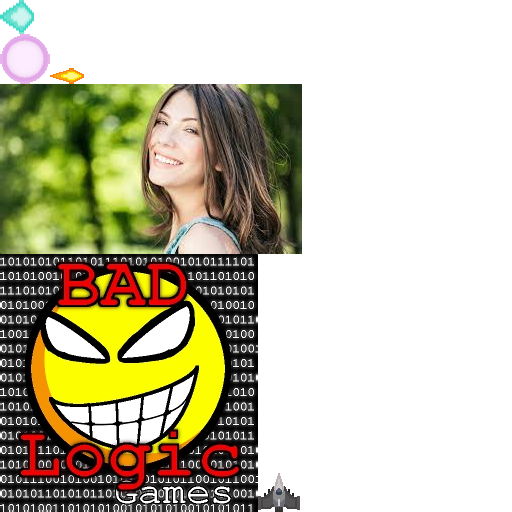
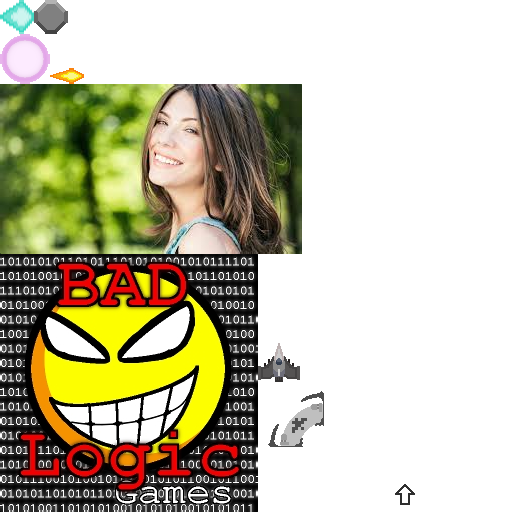
Changes to powerups
+ Added createBasePowerUp builder
	+ Added more sprites
	~ Source compatibility now at 1.8
	~ DebugDrawSystem now does component checking prior to drawing
	+ Added StarsTest (not finished)

diff --git a/core/src/com/coffee/entity/EntityFactory.java b/core/src/com/coffee/entity/EntityFactory.java
@@ -10,7 +10,6 @@ import com.badlogic.gdx.graphics.Color;
 import com.badlogic.gdx.graphics.g2d.Batch;
 import com.badlogic.gdx.graphics.g2d.Sprite;
 import com.badlogic.gdx.graphics.g2d.TextureAtlas;
-import com.badlogic.gdx.math.MathUtils;
 import com.badlogic.gdx.math.Polygon;
 import com.badlogic.gdx.math.Vector2;
 import com.badlogic.gdx.utils.Array;
@@ -20,7 +19,6 @@ import com.coffee.main.Application;
 import com.coffee.util.Assets;
 import com.coffee.util.CollisionHandler;
 import com.coffee.util.Mapper;
-import com.coffee.util.SpawnerHandler;
 
 import java.awt.*;
 
@@ -261,54 +259,73 @@ public class EntityFactory {
     public static Entity createRandomPowerUpSpawner(float x, float y) {
         final Entity E = new Entity();
         final TransformComponent TRANSFORM = new TransformComponent();
-        final SpriteComponent SPRITE = new SpriteComponent(); //debug
-        final SpawnerComponent SPAWN = new SpawnerComponent(new SpawnerHandler() {
-            @Override
-            public Array<Entity> getSpawnEntity() {
-                Array<Entity> spawnedEntities = new Array<Entity>(1);
-                //Spawn a random power up within a 300x300 square of the position
-                float spawnX = TRANSFORM.POSITION.x  + (float) ((Math.random() * 600) - 300);
-                float spawnY = TRANSFORM.POSITION.y  + (float) ((Math.random() * 600) - 300);
-                int randomPowerUpSpawned = (int) ((Math.random() * 3));
+        final SpawnerComponent SPAWN = new SpawnerComponent(() -> {
+            Array<Entity> spawnedEntities = new Array<Entity>(1);
+            //Spawn a random power up within a 300x300 square of the position
+            float spawnX = TRANSFORM.POSITION.x  + (float) ((Math.random() * 600) - 300);
+            float spawnY = TRANSFORM.POSITION.y  + (float) ((Math.random() * 600) - 300);
+            int randomPowerUpSpawned = (int) ((Math.random() * 3));
 
-                switch (randomPowerUpSpawned) {
-                    case 0: //health power up
-                        spawnedEntities.add(createHealthPowerUp(spawnX, spawnY));
-                        break;
-                    case 1: //speed power up
-                        spawnedEntities.add(createSpeedPowerUp(spawnX, spawnY));
-                        break;
-                    case 2: //create fire rate up
-                        spawnedEntities.add(createFireRatePowerUp(spawnX, spawnY));
-                        break;
-                }
-                return spawnedEntities;
+            switch (randomPowerUpSpawned) {
+                case 0: //health power up
+                    spawnedEntities.add(createHealthPowerUp(spawnX, spawnY));
+                    break;
+                case 1: //speed power up
+                    spawnedEntities.add(createSpeedPowerUp(spawnX, spawnY));
+                    break;
+                case 2: //create fire rate up
+                    spawnedEntities.add(createFireRatePowerUp(spawnX, spawnY));
+                    break;
             }
+            return spawnedEntities;
         });
 
-        //Set up Sprite Component
-        Sprite sprite = goAtlas.createSprite("bullet_large");
-        sprite.setOrigin(sprite.getWidth() / 2, sprite.getHeight() / 2);
-        SPRITE.SPRITES.add(sprite);
-
         //Set up Transform Component
-        TRANSFORM.POSITION.x = x;
-        TRANSFORM.POSITION.y = y;
+        TRANSFORM.POSITION.set(x, y);
 
         //Set up Spawn Component
         SPAWN.spawnRate = 2;
 
-        return E.add(TRANSFORM).add(SPRITE).add(SPAWN);
+        return E.add(TRANSFORM).add(SPAWN);
+    }
+
+    public static Entity createBasePowerUp(float x, float y) {
+        final Entity E = new Entity();
+        final TransformComponent TRANSFORM = new TransformComponent();
+        final SpriteComponent SPRITE = new SpriteComponent();
+        final ColliderComponent COLLIDER;
+
+        //Set up Sprite Component
+        Sprite
+            base = goAtlas.createSprite("upgrade_base"),
+            up = goAtlas.createSprite("up_arrow");
+
+        base.setOriginCenter();
+        up.setOriginCenter();
+
+        SPRITE.SPRITES.add(base);
+        SPRITE.SPRITES.add(up);
+
+        //Set up Transform Component
+        TRANSFORM.POSITION.set(x, y);
+
+        return E.add(TRANSFORM).add(SPRITE);
     }
 
     /**
      * Creates a health power up that restores the player's health to max.
      */
     public static Entity createHealthPowerUp(float x, float y) {
-        final Entity E = new Entity();
-        final TransformComponent TRANSFORM = new TransformComponent();
-        final SpriteComponent SPRITE = new SpriteComponent();
-        final ColliderComponent COLLIDER = new ColliderComponent(new CollisionHandler() {
+        final Entity E = createBasePowerUp(x, y);
+        final TransformComponent TRANSFORM = Mapper.TRANSFORM.get(E);
+        final SpriteComponent SPRITE = Mapper.SPRITE.get(E);
+        final ColliderComponent COLLIDER;
+
+        // Set up base sprite
+        SPRITE.SPRITES.get(0).setColor(Color.RED);
+
+        //Set up Collider Component
+        COLLIDER = new ColliderComponent(new CollisionHandler() {
             @Override
             public void enterCollision(Entity entity) {
                 if (Mapper.PLAYER.has(entity)) {
@@ -325,26 +342,16 @@ public class EntityFactory {
             }
         });
 
-        //Set up Transform Component
-        TRANSFORM.POSITION.x = x;
-        TRANSFORM.POSITION.y = y;
-
-        //Set up Sprite Component
-        Sprite sprite = goAtlas.createSprite("bullet_ball");
-        sprite.setOrigin(sprite.getWidth() / 2, sprite.getHeight() / 2);
-        SPRITE.SPRITES.add(sprite);
-
-        //Set up Collider Component
         COLLIDER.body = new Polygon(new float[] {
                 0, 0,
-                16, 0,
-                16, 16,
-                0, 16
+                TRANSFORM.SIZE.width, 0,
+                TRANSFORM.SIZE.width, TRANSFORM.SIZE.height,
+                0, TRANSFORM.SIZE.height
         });
         COLLIDER.solid = false;
-        COLLIDER.body.setOrigin(8, 8);
+        COLLIDER.body.setOrigin(TRANSFORM.ORIGIN.x, TRANSFORM.ORIGIN.y);
 
-        return E.add(TRANSFORM).add(SPRITE).add(COLLIDER);
+        return E.add(COLLIDER);
     }
 
     /**
@@ -352,15 +359,20 @@ public class EntityFactory {
      * diminishing returns after 20 bullets per second.
      */
     public static Entity createFireRatePowerUp(float x, float y) {
-        final Entity E = new Entity();
-        final TransformComponent TRANSFORM = new TransformComponent();
-        final SpriteComponent SPRITE = new SpriteComponent();
-        final ColliderComponent COLLIDER = new ColliderComponent(new CollisionHandler() {
+        final Entity E = createBasePowerUp(x, y);
+        final TransformComponent TRANSFORM = Mapper.TRANSFORM.get(E);
+        final SpriteComponent SPRITE = Mapper.SPRITE.get(E);
+        final ColliderComponent COLLIDER;
+
+        // Set up base sprite
+        SPRITE.SPRITES.get(0).setColor(Color.YELLOW);
+
+        //Set up Collider Component
+        COLLIDER = new ColliderComponent(new CollisionHandler() {
             @Override
             public void enterCollision(Entity entity) {
                 if (Mapper.PLAYER.has(entity)) {
-                    PlayerComponent player = Mapper.PLAYER.get(entity);
-                    player.bulletsPerSecond += 2 * MathUtils.clamp(20 / player.bulletsPerSecond, 0, 1);
+                    Mapper.HEALTH.get(entity).health = Mapper.HEALTH.get(entity).MAX_HEALTH;
                 }
             }
 
@@ -373,27 +385,16 @@ public class EntityFactory {
             }
         });
 
-        //Set up Transform Component
-        TRANSFORM.POSITION.x = x;
-        TRANSFORM.POSITION.y = y;
-
-        //Set up Sprite Component
-        Sprite sprite = goAtlas.createSprite("bullet_ball");
-        sprite.setColor(Color.RED);
-        sprite.setOrigin(sprite.getWidth() / 2, sprite.getHeight() / 2);
-        SPRITE.SPRITES.add(sprite);
-
-        //Set up Collider Component
         COLLIDER.body = new Polygon(new float[] {
                 0, 0,
-                16, 0,
-                16, 16,
-                0, 16
+                TRANSFORM.SIZE.width, 0,
+                TRANSFORM.SIZE.width, TRANSFORM.SIZE.height,
+                0, TRANSFORM.SIZE.height
         });
         COLLIDER.solid = false;
-        COLLIDER.body.setOrigin(8, 8);
+        COLLIDER.body.setOrigin(TRANSFORM.ORIGIN.x, TRANSFORM.ORIGIN.y);
 
-        return E.add(TRANSFORM).add(SPRITE).add(COLLIDER);
+        return E.add(COLLIDER);
     }
 
     /**
@@ -401,15 +402,20 @@ public class EntityFactory {
      * returns after 10.
      */
     public static Entity createSpeedPowerUp(float x, float y) {
-        final Entity E = new Entity();
-        final TransformComponent TRANSFORM = new TransformComponent();
-        final SpriteComponent SPRITE = new SpriteComponent();
-        final ColliderComponent COLLIDER = new ColliderComponent(new CollisionHandler() {
+        final Entity E = createBasePowerUp(x, y);
+        final TransformComponent TRANSFORM = Mapper.TRANSFORM.get(E);
+        final SpriteComponent SPRITE = Mapper.SPRITE.get(E);
+        final ColliderComponent COLLIDER;
+
+        // Set up base sprite
+        SPRITE.SPRITES.get(0).setColor(Color.CYAN);
+
+        //Set up Collider Component
+        COLLIDER = new ColliderComponent(new CollisionHandler() {
             @Override
             public void enterCollision(Entity entity) {
-                MovementComponent move = Mapper.MOVEMENT.get(entity);
-                if (move != null) {
-                    move.moveSpeed += 1 * MathUtils.clamp(10 / move.moveSpeed, 0, 1);
+                if (Mapper.PLAYER.has(entity)) {
+                    Mapper.HEALTH.get(entity).health = Mapper.HEALTH.get(entity).MAX_HEALTH;
                 }
             }
 
@@ -422,27 +428,15 @@ public class EntityFactory {
             }
         });
 
-        //Set up Transform Component
-        TRANSFORM.POSITION.x = x;
-        TRANSFORM.POSITION.y = y;
-
-        //Set up Sprite Component
-        Sprite sprite = goAtlas.createSprite("bullet_ball");
-        sprite.setColor(Color.PINK);
-        sprite.setOrigin(sprite.getWidth() / 2, sprite.getHeight() / 2);
-        SPRITE.SPRITES.add(sprite);
-
-        //Set up Collider Component
         COLLIDER.body = new Polygon(new float[] {
                 0, 0,
-                16, 0,
-                16, 16,
-                0, 16
+                TRANSFORM.SIZE.width, 0,
+                TRANSFORM.SIZE.width, TRANSFORM.SIZE.height,
+                0, TRANSFORM.SIZE.height
         });
         COLLIDER.solid = false;
-        COLLIDER.body.setOrigin(8, 8);
+        COLLIDER.body.setOrigin(TRANSFORM.ORIGIN.x, TRANSFORM.ORIGIN.y);
 
-        return E.add(TRANSFORM).add(SPRITE).add(COLLIDER);
-
+        return E.add(COLLIDER);
     }
 }

diff --git a/core/src/com/coffee/entity/systems/DebugDrawSystem.java b/core/src/com/coffee/entity/systems/DebugDrawSystem.java
@@ -30,35 +30,40 @@ public class DebugDrawSystem extends IteratingSystem {
 
     @Override
     protected void processEntity(Entity entity, float deltaTime) {
-        TransformComponent transform = Mapper.TRANSFORM.get(entity);
-        ColliderComponent collider = Mapper.COLLIDER.get(entity);
-
         // Transform first
-        RENDERER.set(ShapeRenderer.ShapeType.Line);
-        RENDERER.setColor(Color.GREEN);
-        RENDERER.rect(
-                transform.POSITION.x,
-                transform.POSITION.y,
-                transform.ORIGIN.x,
-                transform.ORIGIN.y,
-                transform.SIZE.width,
-                transform.SIZE.height,
-                1,
-                1,
-                (float) transform.rotation
-        );
+        if (Mapper.TRANSFORM.has(entity)) {
+            TransformComponent transform = Mapper.TRANSFORM.get(entity);
 
-        RENDERER.set(ShapeRenderer.ShapeType.Filled);
-        RENDERER.circle(
-                transform.POSITION.x + transform.ORIGIN.x,
-                transform.POSITION.y + transform.ORIGIN.y,
-                5
-        );
+            RENDERER.set(ShapeRenderer.ShapeType.Line);
+            RENDERER.setColor(Color.GREEN);
+            RENDERER.rect(
+                    transform.POSITION.x,
+                    transform.POSITION.y,
+                    transform.ORIGIN.x,
+                    transform.ORIGIN.y,
+                    transform.SIZE.width,
+                    transform.SIZE.height,
+                    1,
+                    1,
+                    (float) transform.rotation
+            );
+
+            RENDERER.set(ShapeRenderer.ShapeType.Filled);
+            RENDERER.circle(
+                    transform.POSITION.x + transform.ORIGIN.x,
+                    transform.POSITION.y + transform.ORIGIN.y,
+                    5
+            );
+        }
 
         // Collider body second
-        RENDERER.set(ShapeRenderer.ShapeType.Line);
-        RENDERER.setColor(Color.RED);
-        RENDERER.polygon(collider.body.getTransformedVertices());
+        if (Mapper.COLLIDER.has(entity)) {
+            ColliderComponent collider = Mapper.COLLIDER.get(entity);
+
+            RENDERER.set(ShapeRenderer.ShapeType.Line);
+            RENDERER.setColor(Color.RED);
+            RENDERER.polygon(collider.body.getTransformedVertices());
+        }
     }
 
     public void update(float dt) {

diff --git a/core/src/com/coffee/main/screen/StarsTest.java b/core/src/com/coffee/main/screen/StarsTest.java
@@ -13,16 +13,18 @@ import com.coffee.main.Application;
 import com.coffee.util.Mapper;
 
 /**
- * @author Phillip O'Reggio
+ * Test to see if the player is controllable.
+ *
+ * @author Jared Tulayan
  */
-public class PowerUpTest extends ScreenAdapter {
+public class StarsTest extends ScreenAdapter {
     private final SpriteBatch BATCH;
     private final Viewport VIEWPORT;
     private final ShapeRenderer SHAPE_RENDERER;
     private final PooledEngine ENGINE;
     private Entity player;
 
-    public PowerUpTest() {
+    public StarsTest() {
         Application app = (Application) Gdx.app.getApplicationListener();
 
         BATCH = app.getBatch();
@@ -31,17 +33,14 @@ public class PowerUpTest extends ScreenAdapter {
         SHAPE_RENDERER = app.getShapeRenderer();
 
         ENGINE.addSystem(new DrawSystem(BATCH, VIEWPORT));
+        //ENGINE.addSystem(new DebugDrawSystem(SHAPE_RENDERER, VIEWPORT));
         ENGINE.addSystem(new BulletSystem(VIEWPORT));
         ENGINE.addSystem(new MovementSystem(VIEWPORT));
         ENGINE.addSystem(new CollisionSystem(app.getShapeRenderer(), VIEWPORT, true));
-        ENGINE.addSystem(new DebugDrawSystem(SHAPE_RENDERER, VIEWPORT));
-        ENGINE.addSystem(new SpawnerSystem(ENGINE));
         ENGINE.addSystem(new PlayerSystem(VIEWPORT));
 
         player = EntityFactory.createPlayer();
-
         ENGINE.addEntity(player);
-        ENGINE.addEntity(EntityFactory.createRandomPowerUpSpawner(200, 200));
     }
 
     @Override
